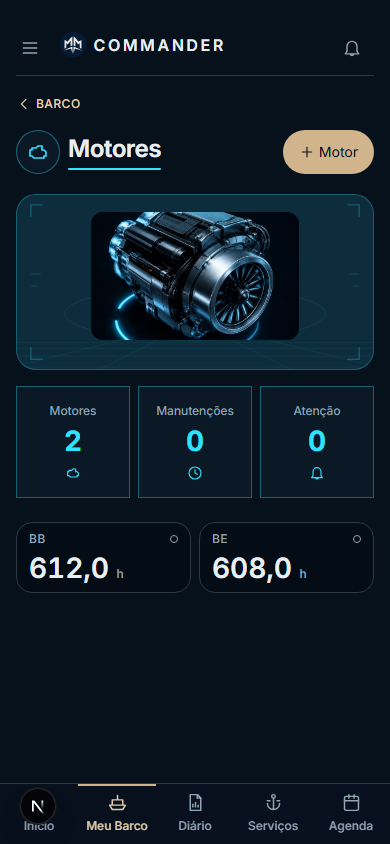
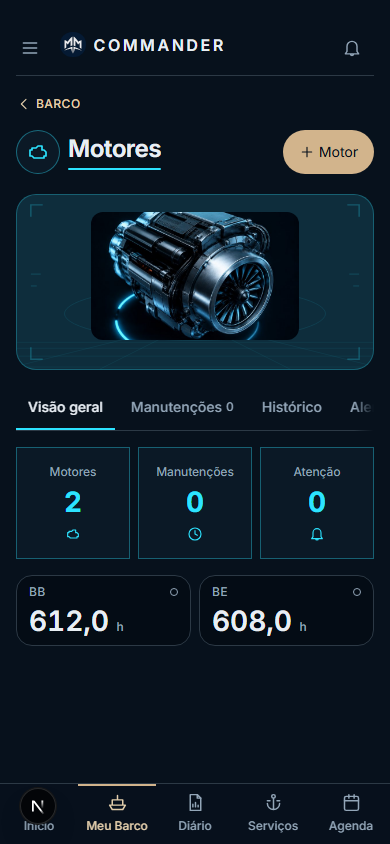
feat(onda 128): as abas da imagem 1 entram no hub — Motores é o piloto
Início do refino das telas operacionais que o dono pediu (20/08): a tela
normativa de Motores (imagem 1 do guia) desenha abas entre o objeto e os
números, com a ativa na cor do hub.

- Abas ganha `classeAtiva`: cada página de hub passa a PRÓPRIA borda
  ("border-hub-motores") — só a borda muda de cor; texto da ativa continua
  text-texto, porque tom de hub não vira cor de texto (corolário §3.2).
  Fora dos hubs, o dourado/champanhe de sempre.
- /barco/motores vira o piloto com QUATRO abas honestas, estado na URL:
  · Visão geral — trinca + horímetros dos motores (o que a tela já era);
  · Manutenções — os itens monitorados pendurados nos motores, com farol
    (e "sem prazo" em palavra quando o item não tem informação — nunca
    farol verde de mentira);
  · Histórico — os registros do Diário apontados a um motor, consulta paga
    SÓ quando a aba abre;
  · Alertas — o recorte que pede ação, mesmo farol.
  "Sistemas" (a quinta do guia) fica de fora até existir a entidade — aba
  apontando pra nada é a mentira que o §6 proíbe.
- Contagem nas abas que custam zero (Manutenções, Alertas); Histórico sem
  número de propósito — contá-lo pagaria a consulta que a aba fechada
  existe pra evitar.

Próximas ondas replicam a anatomia nos outros 7 hubs, cada um com o
vocabulário de abas da sua tela no guia (Casco: Inspeções/Histórico/
Documentos; Elétrica: Baterias/Circuitos/...; etc.).

Prova: .prova/8-hub-motores-tela.png. 2081 testes verdes, tsc e eslint
limpos.

diff --git a/web/app/(app)/barco/motores/page.tsx b/web/app/(app)/barco/motores/page.tsx
@@ -1,16 +1,22 @@
 import Link from "next/link"
 import { redirect } from "next/navigation"
+import { Farol } from "@/components/farol"
 import { Horimetro } from "@/components/horimetro"
 import { Icone } from "@/components/icone"
+import { Abas } from "@/components/ui/abas"
 import { CabecalhoDetalhe } from "@/components/ui/cabecalho-detalhe"
 import { EstadoVazio } from "@/components/ui/estado-vazio"
 import { HeroiTecnico } from "@/components/ui/heroi-tecnico"
 import { NumerosDoHub } from "@/components/ui/numeros-do-hub"
 import { carregarPainel, hojeISO, itemMonitoradoToItemCalc } from "@/lib/consultas"
+import { TIPO_ROTULO } from "@/lib/domain/diario"
+import { formatarReais } from "@/lib/domain/gastos"
 import { podeEditar, podeVer } from "@/lib/domain/permissoes"
 import {
-  calcularSemaforo, PESO, temInformacaoSuficiente, type StatusFarol,
+  calcularSemaforo, formatarDataCurta, PESO, temInformacaoSuficiente, type StatusFarol,
 } from "@/lib/domain/semaforo"
+import { supabaseServer } from "@/lib/supabase/server"
+import type { Evento } from "@/lib/db/types"
 
 /**
  * ONDA 101 — O HUB DOS MOTORES, que era uma seção da /barco.
@@ -30,7 +36,27 @@ import {
  * `min-height: 0` em oito arquivos, contra a régua de 44px. Tela nova nasce
  * certa; os oito herdados estão no relatório.
  */
-export default async function MotoresPage() {
+/**
+ * ONDA 128 — AS ABAS DA IMAGEM 1 DO GUIA, no hub piloto.
+ * A tela normativa de Motores desenha cinco abas (Visão geral · Manutenções
+ * · Sistemas · Histórico · Alertas) entre o objeto e os números. Entram as
+ * QUATRO que o produto sabe responder com dado real — "Sistemas" fica de
+ * fora até existir a entidade (aba apontando pra nada é a mentira que o §6
+ * proíbe; quando subsistema virar cadastro, ela entra aqui). O estado mora
+ * na URL (`?aba=`), como todo `Abas` da casa, e a ativa veste a borda do
+ * PRÓPRIO hub (§5 — cor do hub no estado ativo dele).
+ */
+const ABAS_MOTORES = ["geral", "manutencoes", "historico", "alertas"] as const
+type AbaMotores = (typeof ABAS_MOTORES)[number]
+
+export default async function MotoresPage({
+  searchParams,
+}: {
+  searchParams: Promise<{ aba?: string }>
+}) {
+  const { aba: abaBruta } = await searchParams
+  const aba = (ABAS_MOTORES.some((a) => a === abaBruta) ? abaBruta : "geral") as AbaMotores
+
   const painel = await carregarPainel()
   if (!painel) redirect("/onboarding")
   if (!podeVer(painel.permissoes, "motores")) {
@@ -58,11 +84,34 @@ export default async function MotoresPage() {
   // é `temInformacaoSuficiente`, a mesma de `statusDoMotor`: item sem
   // intervalo nem data não conta nem a favor nem contra.
   const itensDosMotores = painel.itens.filter((i) => motores.some((m) => m.id === i.equipamento_id))
-  const pedemAtencao = itensDosMotores.filter((i) => {
+  // O estado de cada item, calculado uma vez e consumido pelas três abas que
+  // o leem (trinca, Manutenções, Alertas) — `null` quando o item não tem
+  // informação suficiente pra votar.
+  const estadoDoItem = (i: (typeof itensDosMotores)[number]): StatusFarol | null => {
     const horas = motores.find((m) => m.id === i.equipamento_id)?.horas_atuais ?? null
     const calc = itemMonitoradoToItemCalc(i)
-    return temInformacaoSuficiente(calc, horas) && calcularSemaforo(calc, horas, hoje).status !== "ok"
-  }).length
+    return temInformacaoSuficiente(calc, horas) ? calcularSemaforo(calc, horas, hoje).status : null
+  }
+  const itensComEstado = itensDosMotores.map((i) => ({ item: i, estado: estadoDoItem(i) }))
+  const emAlerta = itensComEstado.filter((x) => x.estado != null && x.estado !== "ok")
+  const pedemAtencao = emAlerta.length
+
+  // O HISTÓRICO só desce do banco quando a aba dele está aberta — as outras
+  // três respondem com o `painel` que já está em mãos, e pagar a consulta em
+  // toda abertura do hub seria custo sem leitor.
+  let historico: Pick<Evento, "id" | "tipo" | "data" | "descricao" | "custo_centavos" | "horas_no_momento" | "equipamento_id">[] = []
+  if (aba === "historico" && motores.length > 0) {
+    const supabase = await supabaseServer()
+    const { data } = await supabase
+      .from("eventos")
+      .select("id, tipo, data, descricao, custo_centavos, horas_no_momento, equipamento_id")
+      .eq("embarcacao_id", painel.embarcacao.id)
+      .in("equipamento_id", motores.map((m) => m.id))
+      .order("data", { ascending: false })
+      .limit(30)
+    historico = data ?? []
+  }
+  const nomeDoMotor = (id: string | null) => motores.find((m) => m.id === id)?.posicao ?? "Motor"
 
   return (
     <main>
@@ -86,44 +135,154 @@ export default async function MotoresPage() {
           registrado em `docs/DESIGN-SYSTEM.md`. */}
       <HeroiTecnico chave="motores" className="mt-5 mb-4" />
 
-      {/* ONDA 109 — a trinca da imagem 3, com o vocabulário desta tela: quantos
-          motores, quantas manutenções penduradas neles, e quantas pedem
-          atenção. Os números saem de `painel`, que já está em mãos. */}
-      <NumerosDoHub
-        chave="motores"
+      {/* ONDA 128 — as abas da imagem 1, entre o objeto e os números, com a
+          borda ativa na cor DESTE hub. Contagem em Manutenções e Alertas
+          porque as duas custam zero (saem do painel); Histórico não mostra
+          número de propósito — contá-lo obrigaria a consulta que a aba
+          fechada existe pra não pagar. */}
+      <Abas
         className="mb-4"
-        numeros={[
-          { rotulo: "Motores", valor: String(motores.length), icone: "motor" },
-          { rotulo: "Manutenções", valor: String(itensDosMotores.length), icone: "relogio" },
-          {
-            rotulo: "Atenção",
-            valor: String(pedemAtencao),
-            icone: "alerta",
-            estado: pedemAtencao > 0 ? "atencao" : undefined,
-          },
+        ativa={aba}
+        classeAtiva="border-hub-motores"
+        abas={[
+          { valor: "geral", rotulo: "Visão geral", href: "/barco/motores" },
+          { valor: "manutencoes", rotulo: "Manutenções", href: "/barco/motores?aba=manutencoes", contagem: itensDosMotores.length },
+          { valor: "historico", rotulo: "Histórico", href: "/barco/motores?aba=historico" },
+          { valor: "alertas", rotulo: "Alertas", href: "/barco/motores?aba=alertas", contagem: pedemAtencao },
         ]}
       />
 
-      {motores.length === 0 ? (
-        <EstadoVazio
-          className="mt-6"
-          icone="motor"
-          titulo="Nenhum motor cadastrado ainda"
-          descricao="Cadastre pra ganhar horímetro e checklist de manutenção automáticos."
-          acao={editavel ? { href: "/barco/equipamento/novo?tipo=motor", rotulo: "Cadastrar motor" } : undefined}
-        />
-      ) : (
-        <div className="mt-6 grid grid-cols-2 gap-2 lg:grid-cols-4">
-          {motores.map((m) => (
-            <Link key={m.id} href={`/barco/equipamento/${m.id}`}>
-              <Horimetro
-                rotulo={m.posicao ?? "Motor"}
-                horas={m.horas_atuais}
-                status={statusDoMotor(m.id)}
-              />
-            </Link>
-          ))}
-        </div>
+      {aba === "geral" && (
+        <>
+          {/* ONDA 109 — a trinca da imagem 3, com o vocabulário desta tela. */}
+          <NumerosDoHub
+            chave="motores"
+            className="mb-4"
+            numeros={[
+              { rotulo: "Motores", valor: String(motores.length), icone: "motor" },
+              { rotulo: "Manutenções", valor: String(itensDosMotores.length), icone: "relogio" },
+              {
+                rotulo: "Atenção",
+                valor: String(pedemAtencao),
+                icone: "alerta",
+                estado: pedemAtencao > 0 ? "atencao" : undefined,
+              },
+            ]}
+          />
+
+          {motores.length === 0 ? (
+            <EstadoVazio
+              className="mt-6"
+              icone="motor"
+              titulo="Nenhum motor cadastrado ainda"
+              descricao="Cadastre pra ganhar horímetro e checklist de manutenção automáticos."
+              acao={editavel ? { href: "/barco/equipamento/novo?tipo=motor", rotulo: "Cadastrar motor" } : undefined}
+            />
+          ) : (
+            <div className="mt-2 grid grid-cols-2 gap-2 lg:grid-cols-4">
+              {motores.map((m) => (
+                <Link key={m.id} href={`/barco/equipamento/${m.id}`}>
+                  <Horimetro
+                    rotulo={m.posicao ?? "Motor"}
+                    horas={m.horas_atuais}
+                    status={statusDoMotor(m.id)}
+                  />
+                </Link>
+              ))}
+            </div>
+          )}
+        </>
+      )}
+
+      {aba === "manutencoes" && (
+        itensComEstado.length === 0 ? (
+          <EstadoVazio
+            className="mt-6"
+            icone="ferramenta"
+            titulo="Nenhuma manutenção pendurada nos motores"
+            descricao="Cadastre os itens de manutenção na ficha de cada motor — troca de óleo, filtros, correias — e o semáforo passa a vigiar os prazos."
+          />
+        ) : (
+          <div className="flex flex-col gap-2">
+            {itensComEstado.map(({ item, estado }) => (
+              <Link
+                key={item.id}
+                href={`/barco/equipamento/${item.equipamento_id}`}
+                className="sombra-1 flex items-center gap-3 rounded-[var(--raio-cartao)] border border-line bg-panel p-3"
+              >
+                <div className="min-w-0 flex-1">
+                  <p className="titulo-card truncate">{item.nome}</p>
+                  <p className="apoio mt-0.5 text-dim">{nomeDoMotor(item.equipamento_id)}</p>
+                </div>
+                {/* `estado === null` é "sem informação pra vigiar", e a tela
+                    diz isso em palavra — nunca um farol verde de mentira. */}
+                {estado ? <Farol status={estado} /> : <span className="apoio shrink-0 text-dim">sem prazo</span>}
+                <Icone nome="chevron" className="size-4 shrink-0 text-dim" />
+              </Link>
+            ))}
+          </div>
+        )
+      )}
+
+      {aba === "historico" && (
+        historico.length === 0 ? (
+          <EstadoVazio
+            className="mt-6"
+            icone="calendario"
+            titulo="Nenhum registro dos motores no Diário"
+            descricao="Manutenção, leitura de horas e avaria registradas no Diário de Bordo com um motor apontado aparecem aqui."
+          />
+        ) : (
+          <div className="flex flex-col gap-2">
+            {historico.map((e) => (
+              <div key={e.id} className="sombra-1 rounded-[var(--raio-cartao)] border border-line bg-panel p-3">
+                <p className="rotulo-dado tabular-nums text-dim">
+                  {formatarDataCurta(e.data)} · {TIPO_ROTULO[e.tipo] ?? e.tipo} · {nomeDoMotor(e.equipamento_id)}
+                </p>
+                <p className="titulo-card mt-0.5">{e.descricao?.trim() || (TIPO_ROTULO[e.tipo] ?? e.tipo)}</p>
+                {(e.horas_no_momento != null || e.custo_centavos != null) && (
+                  <p className="apoio mt-1 text-dim">
+                    {e.horas_no_momento != null && (
+                      <>horímetro <span className="tabular-nums text-texto">{e.horas_no_momento.toLocaleString("pt-BR")} h</span></>
+                    )}
+                    {e.horas_no_momento != null && e.custo_centavos != null && " · "}
+                    {e.custo_centavos != null && (
+                      <span className="tabular-nums text-texto">{formatarReais(e.custo_centavos)}</span>
+                    )}
+                  </p>
+                )}
+              </div>
+            ))}
+          </div>
+        )
+      )}
+
+      {aba === "alertas" && (
+        emAlerta.length === 0 ? (
+          <EstadoVazio
+            className="mt-6"
+            icone="seguranca"
+            titulo="Nenhum alerta nos motores"
+            descricao="Tudo que o semáforo vigia está em dia. Alerta aparece aqui quando uma manutenção vence ou encosta no prazo."
+          />
+        ) : (
+          <div className="flex flex-col gap-2">
+            {emAlerta.map(({ item, estado }) => (
+              <Link
+                key={item.id}
+                href={`/barco/equipamento/${item.equipamento_id}`}
+                className="sombra-1 flex items-center gap-3 rounded-[var(--raio-cartao)] border border-line bg-panel p-3"
+              >
+                <div className="min-w-0 flex-1">
+                  <p className="titulo-card truncate">{item.nome}</p>
+                  <p className="apoio mt-0.5 text-dim">{nomeDoMotor(item.equipamento_id)}</p>
+                </div>
+                {estado && <Farol status={estado} />}
+                <Icone nome="chevron" className="size-4 shrink-0 text-dim" />
+              </Link>
+            ))}
+          </div>
+        )
       )}
     </main>
   )

diff --git a/web/components/ui/abas.tsx b/web/components/ui/abas.tsx
@@ -40,10 +40,22 @@ import Link from "next/link"
 export function Abas({
   abas,
   ativa,
+  classeAtiva = "border-accent-forte",
   className = "",
 }: {
   abas: { valor: string; rotulo: string; href: string; contagem?: number }[]
   ativa: string
+  /**
+   * ONDA 128 — o sublinhado da aba ativa na COR DO HUB, como as imagens do
+   * guia desenham dentro de cada hub (§5: cor do hub no estado ativo daquele
+   * sistema). Cada página de hub passa a PRÓPRIA borda ("border-hub-motores")
+   * — nunca a de outro hub, que é a regra que `lib/ui/hubs.test.ts` cobra.
+   * Só a BORDA muda de cor: o texto da ativa continua `text-texto`, porque
+   * tom de hub não pode virar cor de texto (corolário do §3.2 do
+   * DESIGN-SYSTEM — régua de 3:1 de grafismo, não os 4,5:1 de texto).
+   * Fora dos hubs, o padrão dourado continua o de sempre.
+   */
+  classeAtiva?: string
   className?: string
 }) {
   return (
@@ -60,7 +72,7 @@ export function Abas({
             href={a.href}
             aria-current={ehAtiva ? "page" : undefined}
             className={`flex min-h-[var(--altura-controle)] shrink-0 items-center gap-1 whitespace-nowrap border-b-2 px-3 text-sm font-medium ${
-              ehAtiva ? "border-accent-forte text-texto" : "border-transparent text-dim"
+              ehAtiva ? `${classeAtiva} text-texto` : "border-transparent text-dim"
             }`}
           >
             {a.rotulo}
